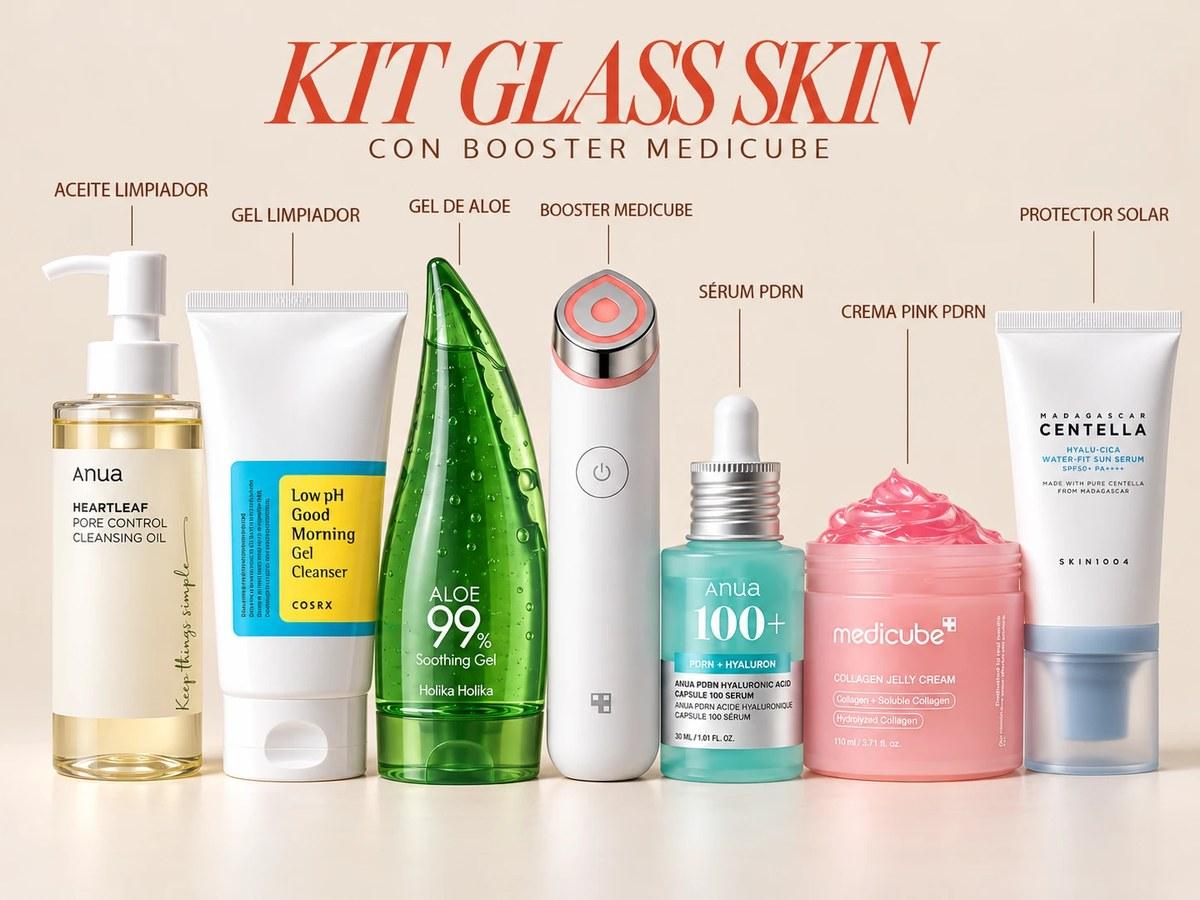
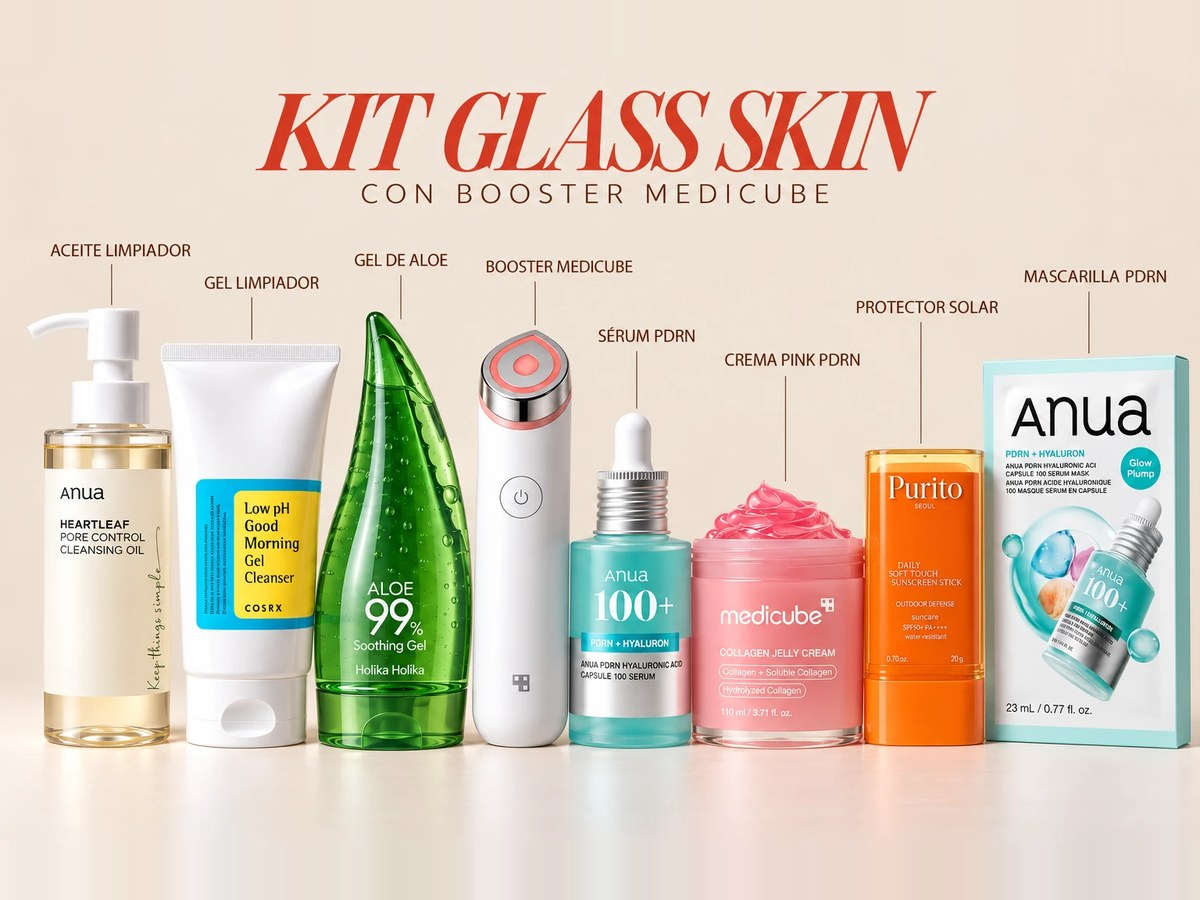
Foto Kit Glass Skin con Purito y mascarilla

diff --git a/index.html b/index.html
@@ -324,7 +324,7 @@ var P = [
   {id:"kit-seca", paso:"kits", kit:true, marca:"Kit con booster", nombre:"Kit Piel madura", pedidoNombre:"Kit Piel madura con booster", precio:279, separado:306, img:"img/kit-seca.jpg?v=2",
    incluye:["Aceite limpiador Anua","Espuma limpiadora Anua","Sérum PDRN Anua","Crema MEDIPEEL Peptide 9","Crema COSRX Retinol 0.1","Contorno de ojos SKINTIFIC 360","Protector SKIN1004 Sun Serum","Mascarilla PDRN Anua"], extra:"Booster medicube AGE-R Mini",
    desc:"Doble limpieza, péptidos y colágeno para que la piel se vea más firme, retinol suave de noche, contorno de ojos con punta masajeadora, sérum PDRN y protector, más el booster. El retinol va solo de noche y nunca junto con el booster."},
-  {id:"kit-glass", paso:"kits", kit:true, marca:"Kit con booster", nombre:"Kit Glass Skin", pedidoNombre:"Kit Glass Skin con booster", precio:249, separado:276, img:"img/kit-glass.jpg",
+  {id:"kit-glass", paso:"kits", kit:true, marca:"Kit con booster", nombre:"Kit Glass Skin", pedidoNombre:"Kit Glass Skin con booster", precio:249, separado:276, img:"img/kit-glass.jpg?v=2",
    incluye:["Aceite limpiador Anua","Gel limpiador COSRX","Gel de aloe Holika Holika","Sérum PDRN Anua","Crema medicube PDRN Pink","Protector en barra Purito","Mascarilla PDRN Anua"], extra:"Booster medicube AGE-R Mini",
    desc:"Para ese brillo jugoso: doble limpieza, aloe que también sirve de gel conductor, sérum y crema PDRN y protector, más el booster."},
   {id:"kit-electro", paso:"kits", kit:true, marca:"Rutina completa", cinta:"¡Radiofrecuencia 5 en 1!", nombre:"Kit completo con electroporador", pedidoNombre:"Kit completo con electroporador", precio:176, separado:181, img:"img/kit-con-electro.jpg?v=2", oculto:true,
